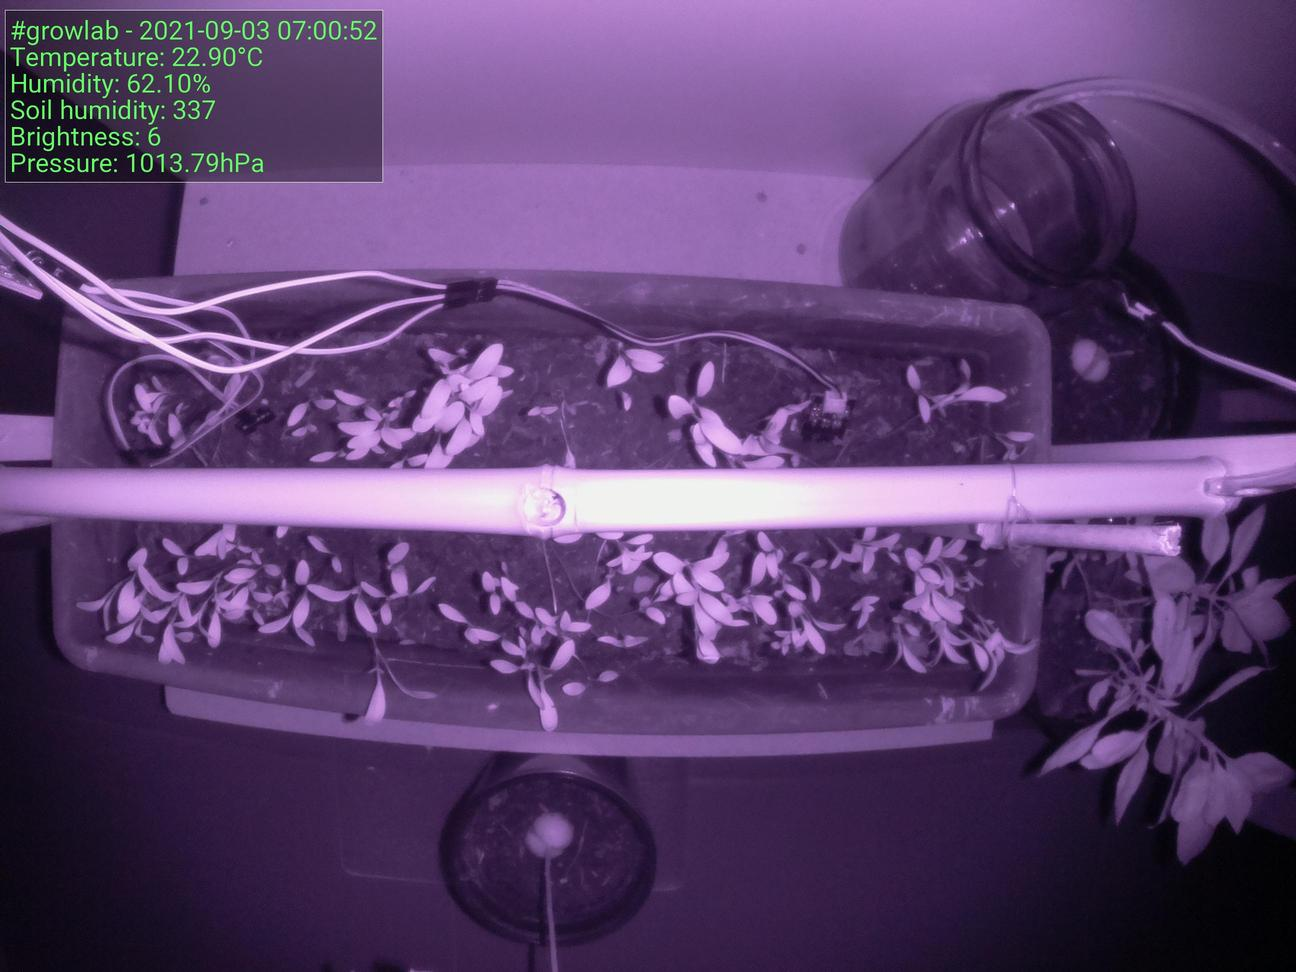
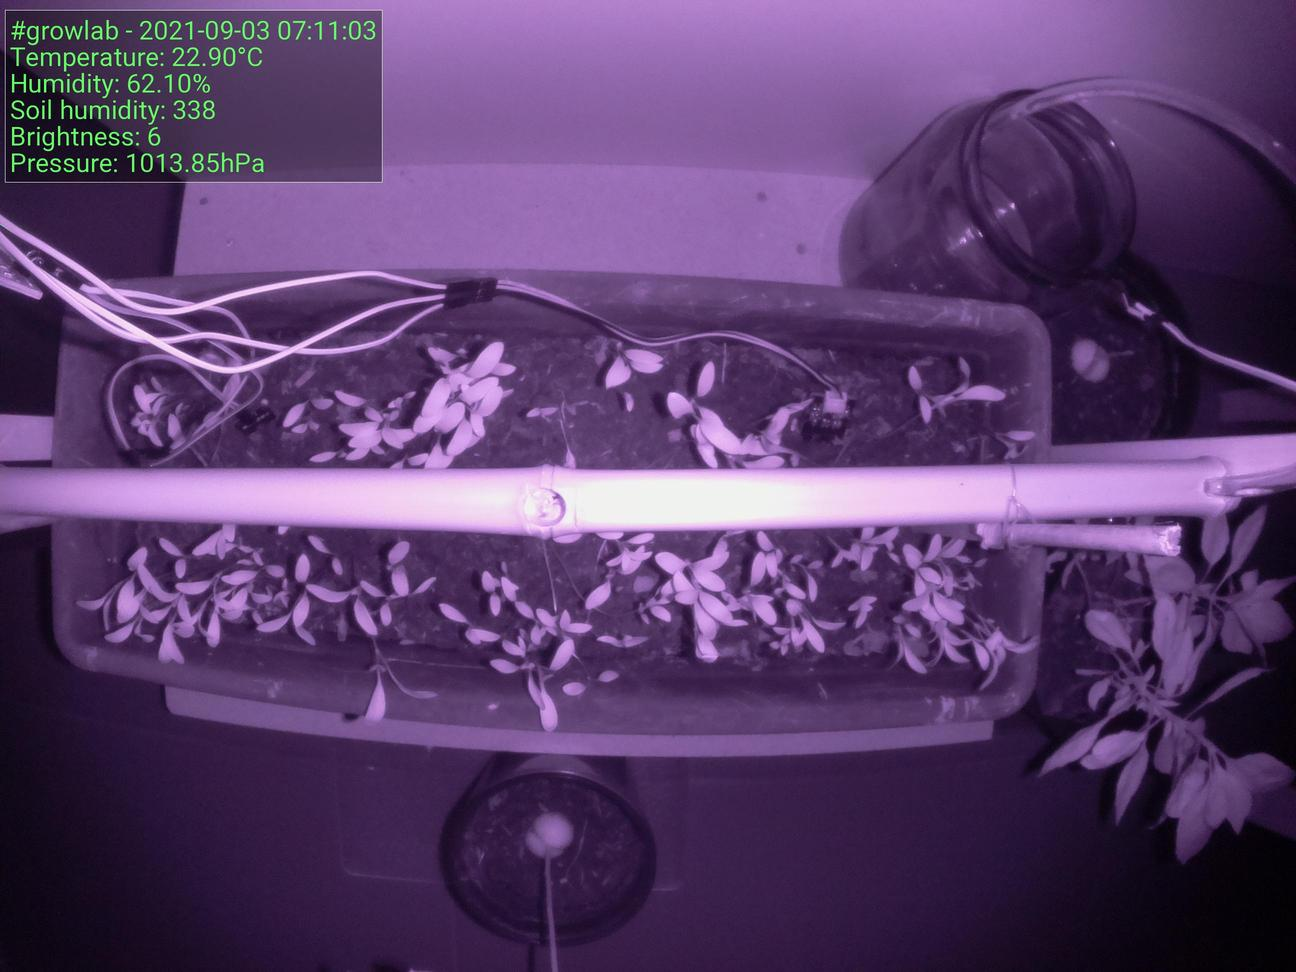
:bento: Update preview

diff --git a/index.html b/index.html
@@ -39,7 +39,7 @@
                     <tbody>
                         <tr>
                             <td>Time</td>
-                            <td>2021-09-03 07:00:52</td>
+                            <td>2021-09-03 07:11:03</td>
                         </tr>
                         <tr>
                             <td>Temperature</td>
@@ -55,7 +55,7 @@
 
                 <h5>Latest image</h5>
 		<div style="width: 85%;">
-	                <img class="figure-img img-fluid rounded" src="./preview.jpg?uid=1630645259.3346539">
+	                <img class="figure-img img-fluid rounded" src="./preview.jpg?uid=1630645871.1266067">
 		</div>
             </div>
         </div>
